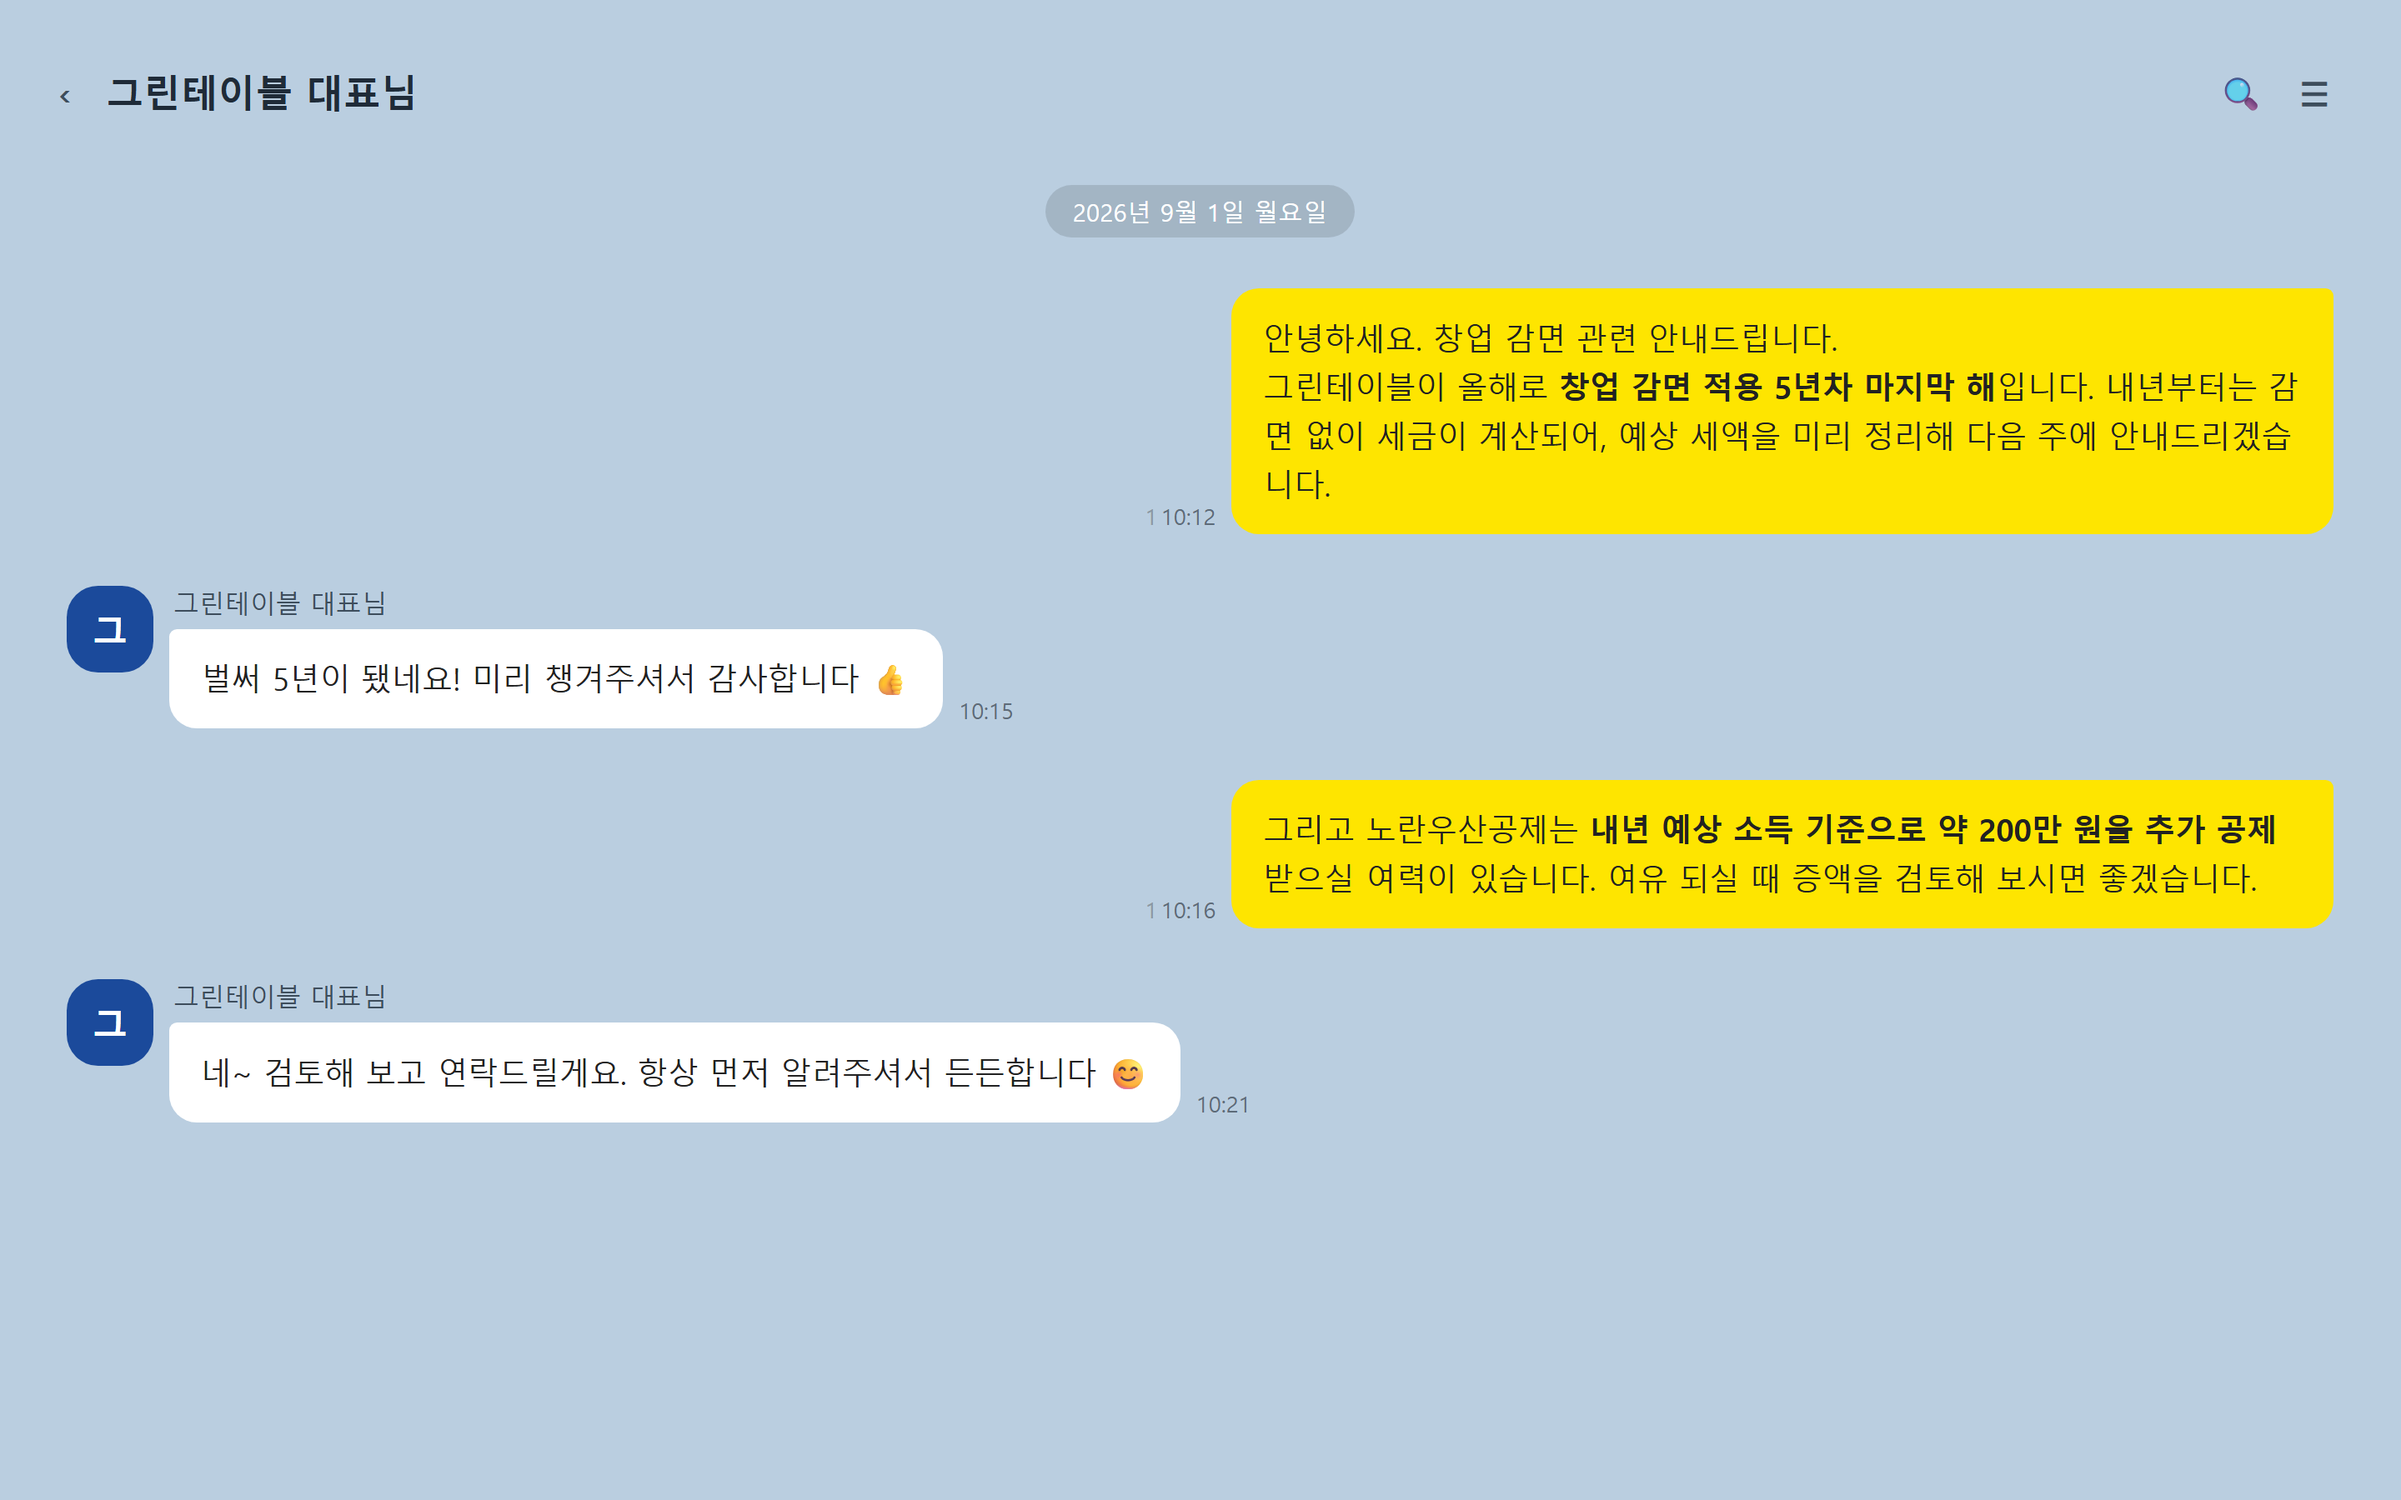
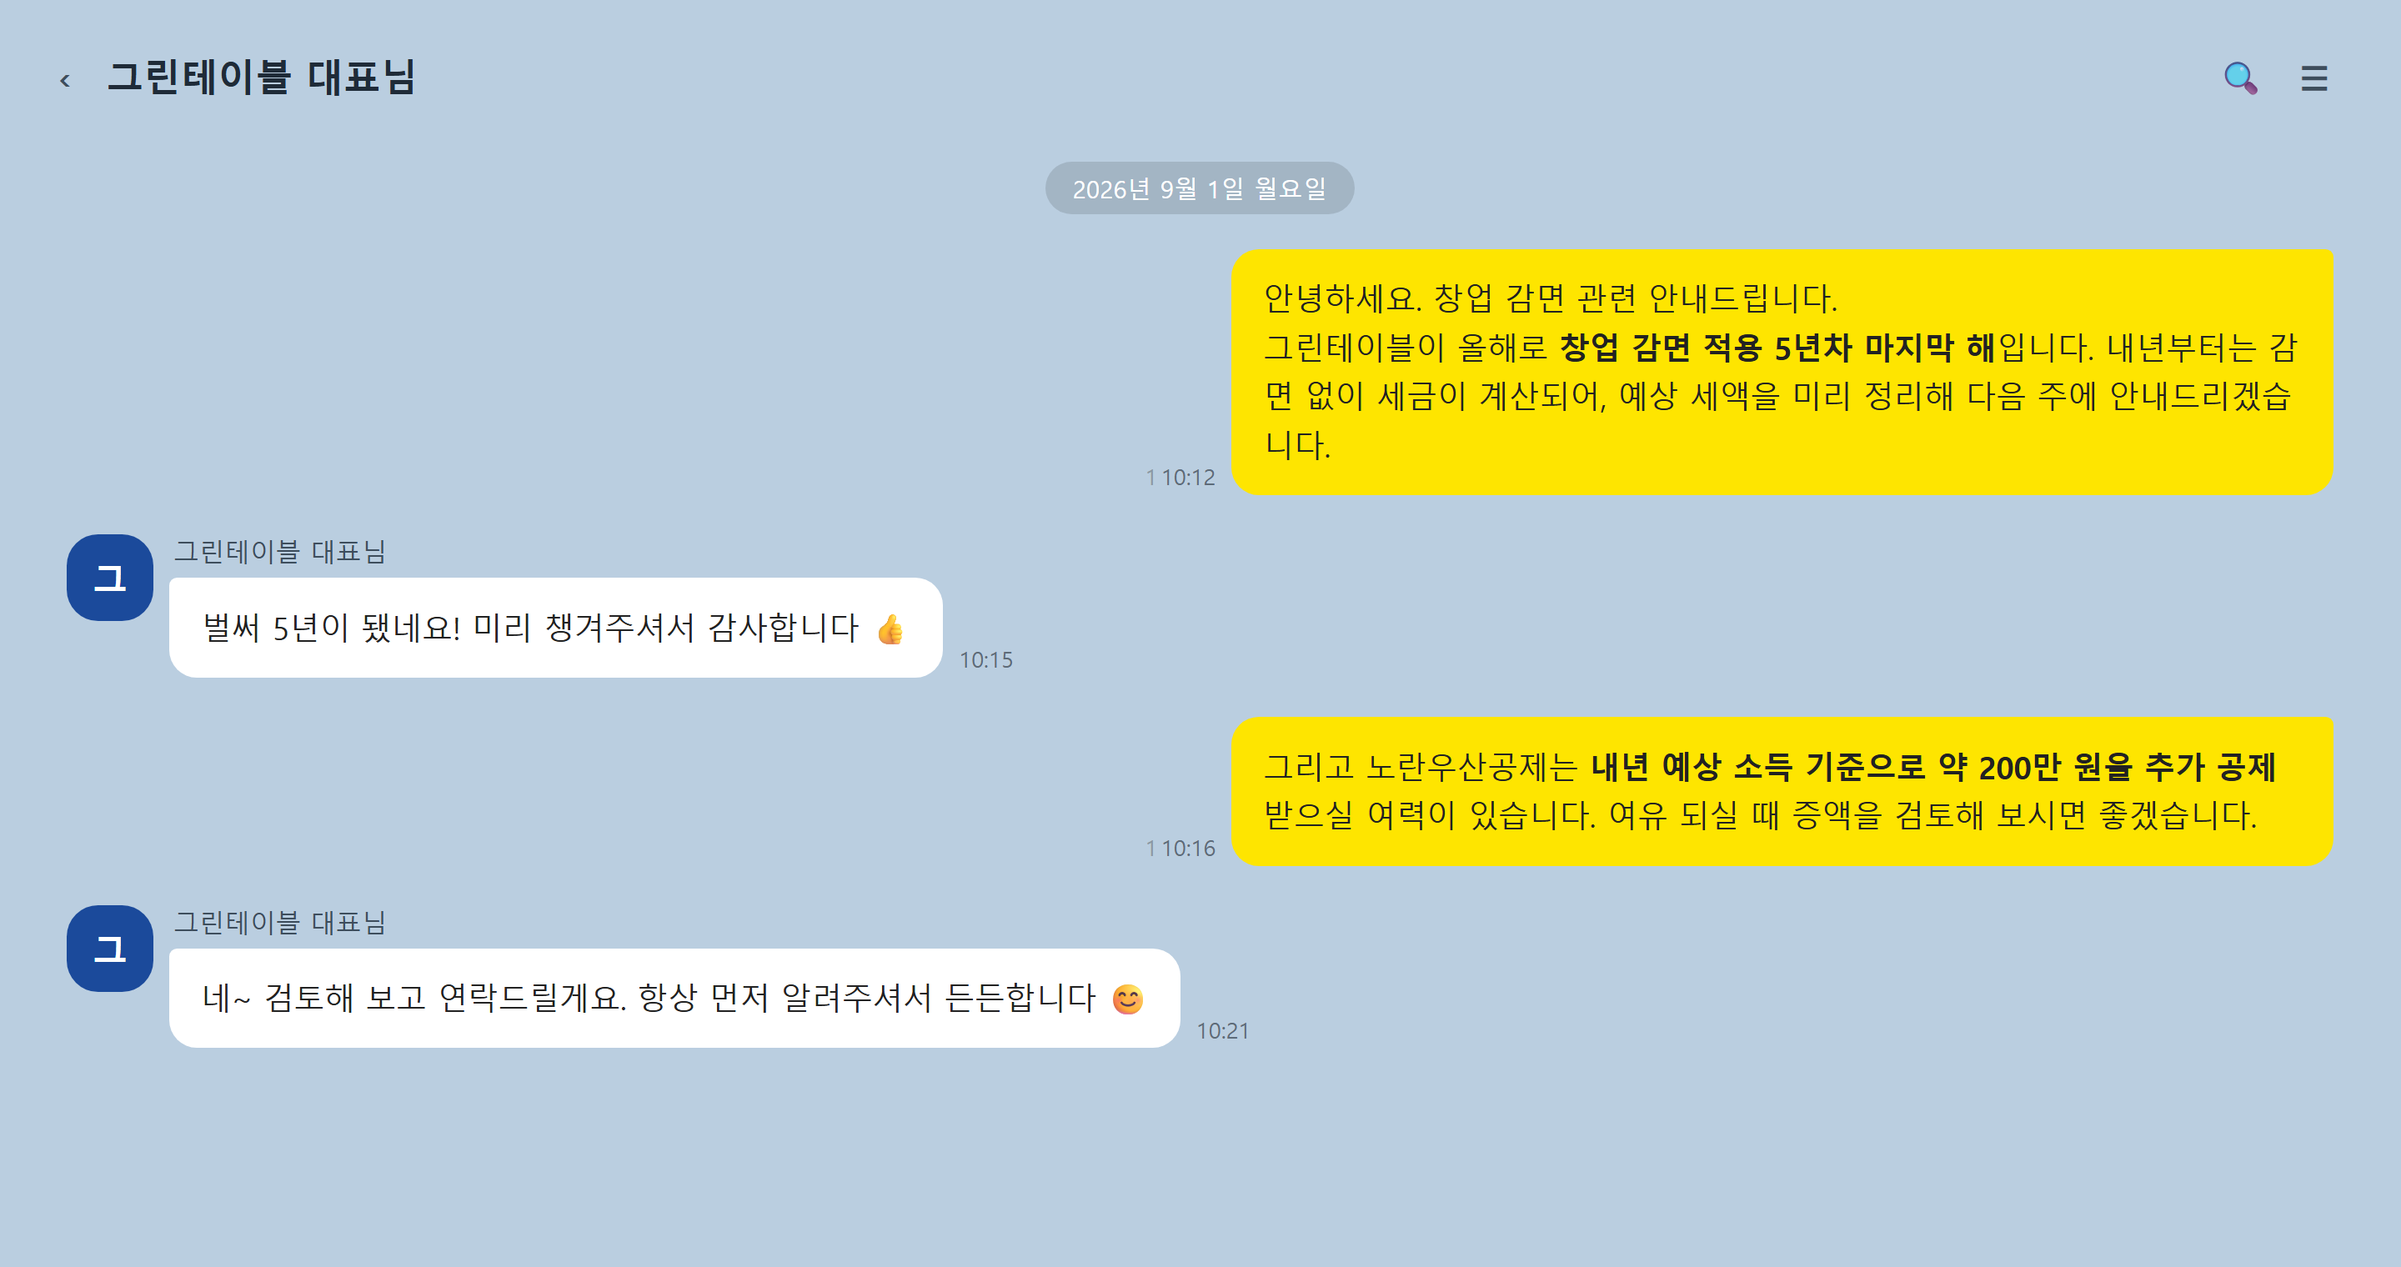
히어로 창을 낮은 캔버스(2880×1520)로 재캡처해 4장 계단 겹침으로 — PC 첫 화면에 슬로건·버튼·창이 다 들어옴. 자동 순환·점 인디케이터 유지, 모바일은 한 장 크로스페이드

diff --git a/index.html b/index.html
@@ -46,7 +46,7 @@
 <link rel="preconnect" href="https://fonts.gstatic.com" crossorigin>
 <link href="https://fonts.googleapis.com/css2?family=Noto+Serif+KR:wght@500;700;900&display=swap" rel="stylesheet">
 <link rel="stylesheet" as="style" crossorigin href="https://cdn.jsdelivr.net/gh/orioncactus/pretendard@v1.3.9/dist/web/variable/pretendardvariable-dynamic-subset.min.css">
-<link rel="stylesheet" href="style.css?v=20">
+<link rel="stylesheet" href="style.css?v=21">
 </head>
 <body>
 
@@ -82,19 +82,19 @@
       <div class="stack-hero" title="누르면 다음 화면이 보입니다">
         <div class="shot" data-i="3">
           <div class="shot-bar"><i></i><i></i><i></i><span>신고서 결재 이력</span></div>
-          <img src="assets/crm/crm_appr.png?v=3" alt="신고서 결재 이력 화면 — 부가세·종합소득세 신고마다 담당자와 세무사 2단계 결재 기록이 남는 화면" width="2880" height="1800">
+          <img src="assets/hero/hero_appr.png" alt="신고서 결재 이력 화면 — 부가세·종합소득세 신고마다 담당자와 세무사 2단계 결재 기록이 남는 화면" width="2880" height="1520">
         </div>
         <div class="shot" data-i="2">
           <div class="shot-bar"><i></i><i></i><i></i><span>활동 타임라인</span></div>
-          <img src="assets/hero/hero_timeline.png?v=2" alt="최근 활동 타임라인 화면 — 상담·업무·신고·입금 기록이 날짜순으로 통합되어 보이는 화면" width="2880" height="1800">
+          <img src="assets/hero/hero_timeline.png?v=3" alt="최근 활동 타임라인 화면 — 상담·업무·신고·입금 기록이 날짜순으로 통합되어 보이는 화면" width="2880" height="1520">
         </div>
         <div class="shot" data-i="1">
           <div class="shot-bar"><i></i><i></i><i></i><span>카카오톡 안내</span></div>
-          <img src="assets/hero/hero_kakao.png?v=3" alt="카카오톡 안내 화면 — 창업감면 종료와 노란우산공제 추가 공제 여력을 담당자가 먼저 안내하는 대화" width="2880" height="1800">
+          <img src="assets/hero/hero_kakao.png?v=4" alt="카카오톡 안내 화면 — 창업감면 종료와 노란우산공제 추가 공제 여력을 담당자가 먼저 안내하는 대화" width="2880" height="1520">
         </div>
         <div class="shot" data-i="0">
           <div class="shot-bar"><i></i><i></i><i></i><span>사전알림</span></div>
-          <img src="assets/hero/hero_alert.png?v=3" alt="사전알림 화면 — 창업감면 종료, 노란우산공제 추가 공제 여력, 통합고용세액공제, 부가세 예정고지 등 이 회사에 해당하는 점검 항목만 골라 보여주는 화면" width="2880" height="1800">
+          <img src="assets/hero/hero_alert.png?v=4" alt="사전알림 화면 — 창업감면 종료, 노란우산공제 추가 공제 여력, 통합고용세액공제, 부가세 예정고지 등 이 회사에 해당하는 점검 항목만 골라 보여주는 화면" width="2880" height="1520">
         </div>
       </div>
       <div class="hdots" aria-hidden="true"><button class="hdot" data-d="0"></button><button class="hdot" data-d="1"></button><button class="hdot" data-d="2"></button><button class="hdot" data-d="3"></button></div>

diff --git a/style.css b/style.css
@@ -61,10 +61,14 @@ body.menu-open .menu-btn span:nth-child(3){transform:translateY(-6px) rotate(-45
 .hero .btns{margin-top:36px;justify-content:center}
 .hero .btn-ghost{background:transparent;color:#fff;border-color:rgba(255,255,255,.35)}
 .hero .btn-ghost:hover{border-color:#fff;color:#fff}
-.stack-hero{position:relative;max-width:880px;margin:64px auto 0;cursor:pointer}
-.stack-hero::before{content:"";display:block;padding-top:67.5%}
-.stack-hero .shot{position:absolute;top:0;left:0;width:100%;opacity:0;transition:opacity .5s ease}
-.stack-hero .shot:last-child{opacity:1}
+.stack-hero{position:relative;max-width:960px;margin:56px auto 0;cursor:pointer}
+.stack-hero::before{content:"";display:block;padding-top:56%}
+.stack-hero .shot{position:absolute;right:0;top:0;width:84%;transition:transform .35s ease,opacity .35s ease}
+.stack-hero .shot img{aspect-ratio:36/19;object-fit:cover;object-position:left top}
+.stack-hero .shot:nth-last-child(1){transform:translate(0,44px);z-index:4}
+.stack-hero .shot:nth-last-child(2){transform:translate(-28px,22px);z-index:3;opacity:.95}
+.stack-hero .shot:nth-last-child(3){transform:translate(-56px,0);z-index:2;opacity:.85}
+.stack-hero .shot:nth-last-child(4){transform:translate(-84px,-22px);z-index:1;opacity:.75}
 .hdots{display:flex;gap:8px;justify-content:center;margin-top:20px}
 .hdot{width:8px;height:8px;border-radius:99px;background:rgba(255,255,255,.28);border:0;padding:0;cursor:pointer;transition:width .25s,background .25s}
 .hdot.on{background:#FEE500;width:24px}
@@ -227,6 +231,10 @@ body.menu-open .menu-btn span:nth-child(3){transform:translateY(-6px) rotate(-45
   .post-list{grid-template-columns:1fr 1fr}
 }
 @media(max-width:660px){
+  .stack-hero{max-width:100%;margin-top:44px}
+  .stack-hero::before{padding-top:calc(52.8% + 42px)}
+  .stack-hero .shot{position:absolute;top:0;left:0;right:auto;width:100%;transform:none!important;opacity:0;transition:opacity .5s ease}
+  .stack-hero .shot:last-child{opacity:1}
   .sec{padding:84px 0}
   .hero{padding:140px 0 84px}
   .hero .lead{font-size:16.5px}

diff --git a/column/_template.html b/column/_template.html
@@ -46,7 +46,7 @@
 <link rel="preconnect" href="https://fonts.gstatic.com" crossorigin>
 <link href="https://fonts.googleapis.com/css2?family=Noto+Serif+KR:wght@600;700;900&display=swap" rel="stylesheet">
 <link rel="stylesheet" as="style" crossorigin href="https://cdn.jsdelivr.net/gh/orioncactus/pretendard@v1.3.9/dist/web/variable/pretendardvariable-dynamic-subset.min.css">
-<link rel="stylesheet" href="../style.css?v=20">
+<link rel="stylesheet" href="../style.css?v=21">
 </head>
 <body>
 

diff --git a/column/index.html b/column/index.html
@@ -15,7 +15,7 @@
 <link rel="preconnect" href="https://fonts.gstatic.com" crossorigin>
 <link href="https://fonts.googleapis.com/css2?family=Noto+Serif+KR:wght@600;700;900&display=swap" rel="stylesheet">
 <link rel="stylesheet" as="style" crossorigin href="https://cdn.jsdelivr.net/gh/orioncactus/pretendard@v1.3.9/dist/web/variable/pretendardvariable-dynamic-subset.min.css">
-<link rel="stylesheet" href="../style.css?v=20">
+<link rel="stylesheet" href="../style.css?v=21">
 </head>
 <body>
 

diff --git a/column/noran-usan-gongje.html b/column/noran-usan-gongje.html
@@ -41,7 +41,7 @@
 <link rel="preconnect" href="https://fonts.gstatic.com" crossorigin>
 <link href="https://fonts.googleapis.com/css2?family=Noto+Serif+KR:wght@600;700;900&display=swap" rel="stylesheet">
 <link rel="stylesheet" as="style" crossorigin href="https://cdn.jsdelivr.net/gh/orioncactus/pretendard@v1.3.9/dist/web/variable/pretendardvariable-dynamic-subset.min.css">
-<link rel="stylesheet" href="../style.css?v=20">
+<link rel="stylesheet" href="../style.css?v=21">
 </head>
 <body>
 

diff --git a/faq/index.html b/faq/index.html
@@ -26,7 +26,7 @@
 <link rel="preconnect" href="https://fonts.gstatic.com" crossorigin>
 <link href="https://fonts.googleapis.com/css2?family=Noto+Serif+KR:wght@500;700;900&display=swap" rel="stylesheet">
 <link rel="stylesheet" as="style" crossorigin href="https://cdn.jsdelivr.net/gh/orioncactus/pretendard@v1.3.9/dist/web/variable/pretendardvariable-dynamic-subset.min.css">
-<link rel="stylesheet" href="../style.css?v=20">
+<link rel="stylesheet" href="../style.css?v=21">
 </head>
 <body>
 
